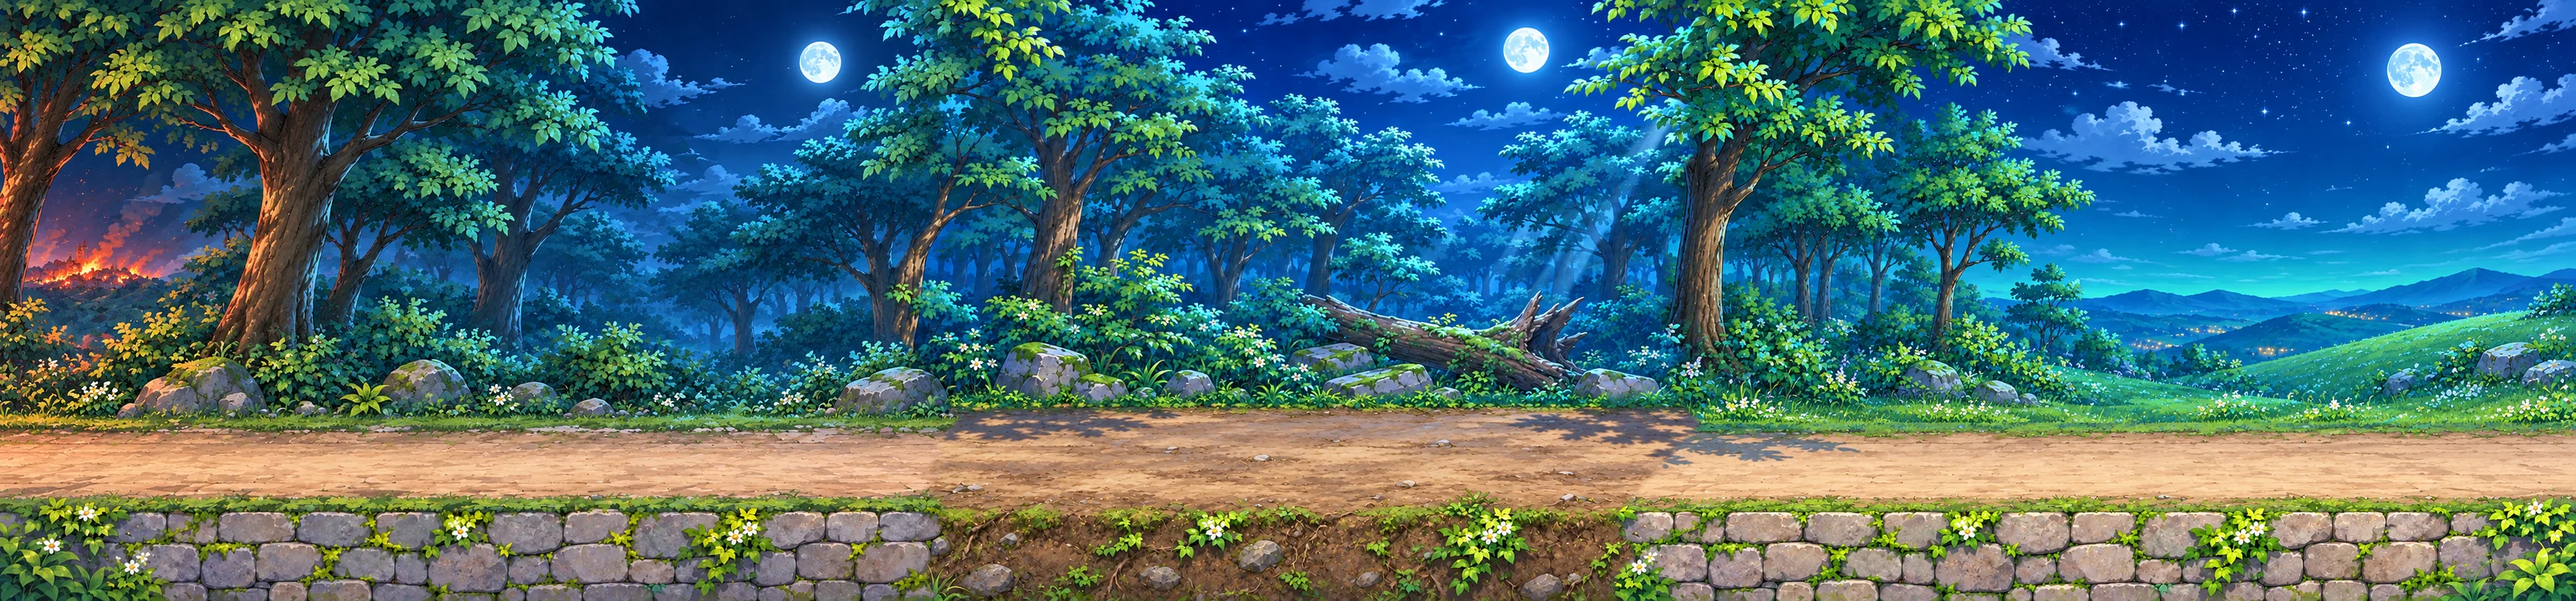
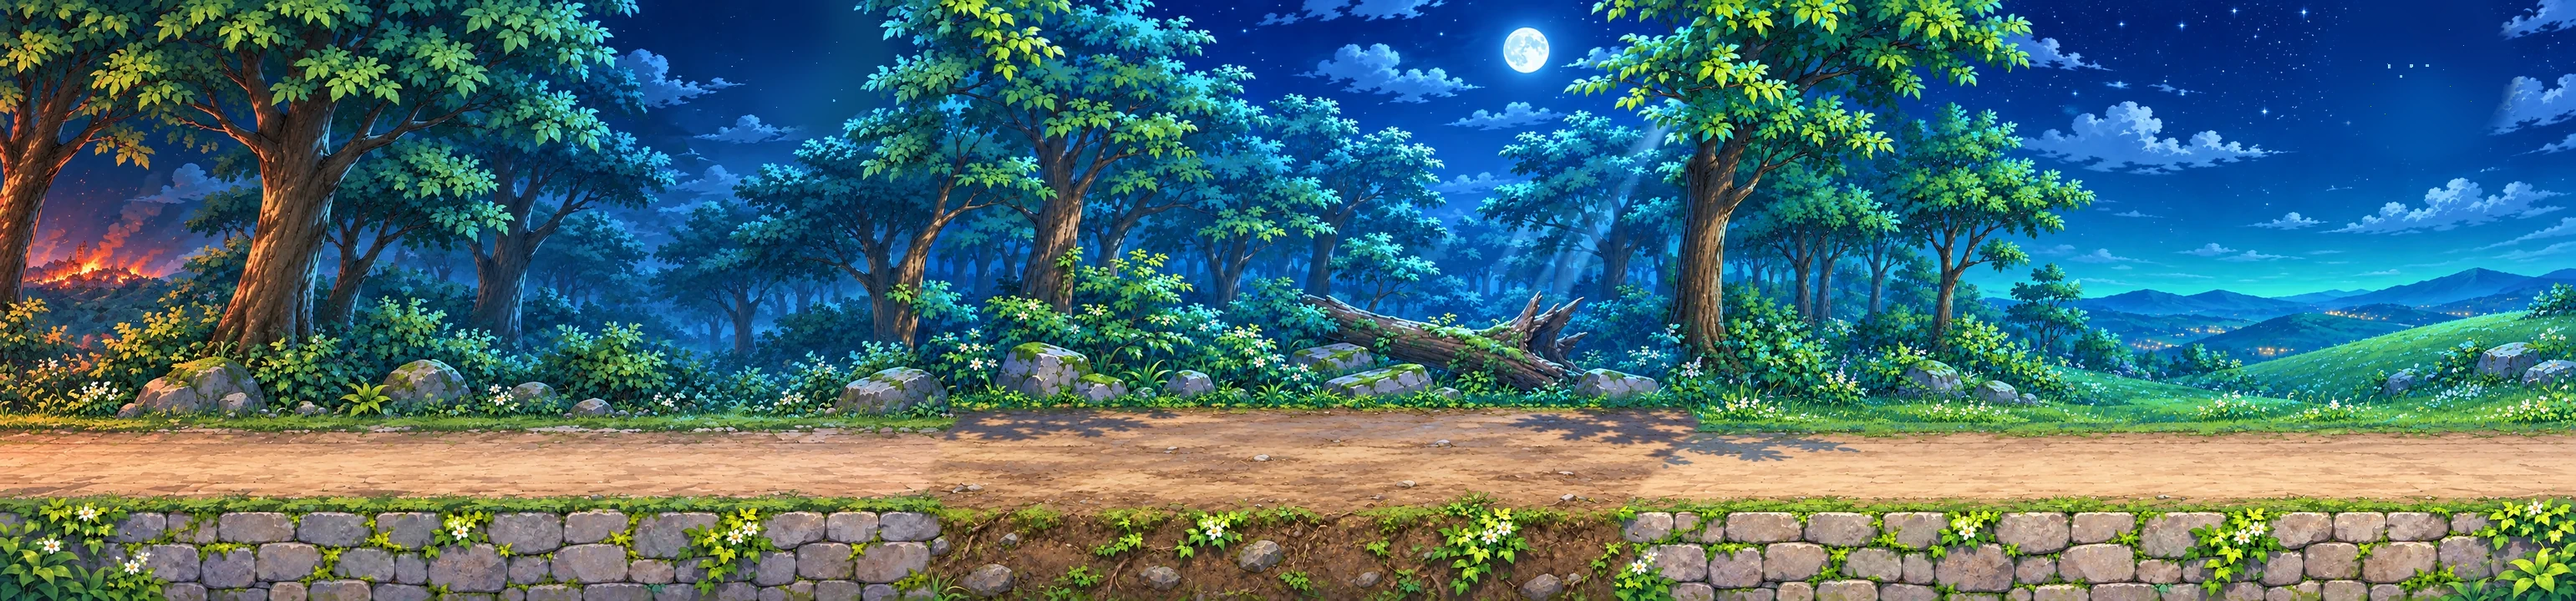
프롤로그 집 장면 개편: 주인공 난투 제거, 무기 든 습격자, 간부 검 동작과 아버지가 대신 맞는 모션 추가(새 동작 시트), 대사 교체, 달 중복 제거(escape 배경)
Claude-Session: https://claude.ai/code/session_01SwHSdbEEaZJxcHmirHV4co

Changed region(s): [[0.903, 0.0, 0.9964, 0.2444], [0.2802, 0.0, 0.3425, 0.2444]]

diff --git a/games/autelia/js/prologue/scenes.js b/games/autelia/js/prologue/scenes.js
@@ -23,7 +23,8 @@ window.AU = window.AU || {};
         const moving = e.pause <= 0, cyc = (e.step / 46) % 1, fr = !moving ? "stand" : cyc < 0.25 ? "walk1" : cyc < 0.5 ? "stand" : cyc < 0.75 ? "walk2" : "stand";
         const bob = moving ? Math.abs(Math.sin(cyc * Math.PI * 2)) * 3.2 : Math.sin(P.time * 1.6 + e.ph) * 1.1, sway = moving ? Math.sin(cyc * Math.PI * 2) * 0.018 : 0;
         ctx.save(); ctx.globalAlpha = e.alpha == null ? (A.has("pc_raider_actions") ? 1 : 0.78) : e.alpha; ctx.translate(e.x, e.y - bob); ctx.rotate(sway * e.face + (e.tilt || 0) * e.face); ctx.translate(-e.x, -e.y);
-        if (!A.spr(ctx, "pc_" + (A.has("pc_" + e.wk) ? e.wk : "raider_actions"), fr, e.x, e.y, e.face, e.s / 0.5)) A.raider(ctx, e.x, e.y, e.s, P.time, e.face); ctx.restore(); } });
+        if (e.pose && A.has("pc_raider_officer")) A.spr(ctx, "pc_raider_officer", e.pose, e.x, e.y, e.face, e.s / 0.5);   // 간부의 검 동작(준비·치켜듦·내리침)
+        else if (!A.spr(ctx, "pc_" + (A.has("pc_" + e.wk) ? e.wk : "raider_actions"), fr, e.x, e.y, e.face, e.s / 0.5)) A.raider(ctx, e.x, e.y, e.s, P.time, e.face); ctx.restore(); } });
   }
   const SHEETS = "abcdefghijklm".split("").filter(() => true); // 주민 동작 시트(a~c 1차, d~m NPC 다양화). 없는 시트는 runner/crowd 에서 건너뜀
   const pickSheet = () => { const ok = SHEETS.filter((c) => A.has("pc_villager_" + c + "_actions")); return ok.length ? ok[(Math.random() * ok.length) | 0] : "a"; };
@@ -383,8 +384,11 @@ window.AU = window.AU || {};
     fireEmitters(P, 1280, 180, 520, 1.1);
     const father = P.addEnt({ id: "father", x: LAY.house.father, range: 0, hand: 0, drop: 0, frag: false, layer: "mid",
       draw(ctx, e, P) { const w = AU.World;
-        if (e.stand && A.has("pc_father_work")) { // 희생 장면: 쓰러졌던 아버지가 마지막 힘으로 일어나 달려 나옴(그림은 왼쪽을 봄)
-          const fr = e.run ? (Math.floor(P.time * 6) % 2 ? "walk1" : "walk2") : "hold"; A.spr(ctx, "pc_father_work", fr, e.x, G - (e.run ? Math.abs(Math.sin(P.time * 12)) * 3 : 0), -e.face); return; }
+        if (e.fpose && A.has("pc_father_hit")) { // 희생 장면: 누웠던 아버지가 일어나 막아서고(guard) → 칼에 맞고(hit) → 무너짐(fall). rise 0..1 로 누운 그림과 서로 겹쳐 바뀜
+          const rs = Math.max(0, Math.min(1, e.rise == null ? 1 : e.rise));
+          if (A.has("pc_father_down") && rs < 1) { ctx.save(); ctx.globalAlpha = 1 - rs; A.pic(ctx, "pc_father_down", LAY.house.father, G + 4, 42, -1); ctx.restore(); }
+          ctx.save(); ctx.globalAlpha = rs; const rot = e.fpose === "guard" ? (1 - rs) * -1.25 : 0; ctx.translate(e.x, G); ctx.rotate(rot * (e.face || -1) * -1); ctx.translate(-e.x, -G);
+          A.spr(ctx, "pc_father_hit", e.fpose, e.x + (e.shk || 0), G, e.face === 1 ? 1 : -1); ctx.restore(); return; }
         if (A.has("pc_father_down")) { // 쓰러진 아버지(머리가 왼쪽): 팔이 뻗은 한 장 그림만 사용(팔 조각을 따로 겹치면 손만 잘려 보여서 제거). 손이 앞으로 내민 쪽에 조각을 쥔 표시만 겹침
           A.pic(ctx, "pc_father_down", e.x, G + 4, 42, -1);
           const tipX = e.x - 96, tipY = G - 6;
@@ -422,7 +426,7 @@ window.AU = window.AU || {};
     const P = AU.Prologue, g = P.gen, v = P.v;
     await P.cutscene(async () => { // CS-03 아버지의 유언
       P.obj(""); P.amb("raid_far", true); P.face(1);
-      await P.say([T.will[0]]); await P.walkTo(612, 1.5); await P.say([T.will[1]]); P.pose("kneel"); P.zoomTo(1.25, 1.6, 700, 450); await P.wait(1.0);
+      await P.say([T.will[0]]); await P.walkTo(Math.max(612, AU.World.player.x), 1.2); await P.say([T.will[1]]); P.pose("kneel"); P.zoomTo(1.25, 1.6, 700, 450); await P.wait(1.0);
       await P.say(T.will.slice(2, 5)); // 아버지 "...왔구나." / 주인공 / 아버지 "아니... 시간이 없다."
       await P.tween(father, { hand: 1 }, 1.3); father.frag = true; await P.wait(0.5);
       P.closeup = { a: 0 }; P.sfx("fragment"); await P.tween(P.closeup, { a: 1 }, 0.9); P.setFlag("metal_fragment_acquired"); P.give("metal_fragment"); father.frag = false; await P.wait(3.0); await P.tween(P.closeup, { a: 0 }, 0.8); P.closeup = null;
@@ -434,70 +438,37 @@ window.AU = window.AU || {};
     }, { id: "cs03", skip: true, bars: true });
     if (!live(P, g)) return; bag.hidden = false; P.obj(OBJ.s4_bag); P.limits = { min: 120, max: null, msg: "도구 가방을 챙겨야 합니다." };
   }
-  /* 집 안 난투: 주인공이 망치로 부하 둘과 맞선다. 공격 키로 망치를 휘두르고(앞쪽 가까운 적에게 적중), 부하는 다가와 몸을 숙였다가 내려친다.
-     체력 표시·패배 없음(맞으면 비틀릴 뿐) — 부하 둘을 쓰러뜨리거나 18초가 지나면 끝나고 간부가 나선다. */
-  function startBrawl(P, foes, limitX) {
-    const p = AU.World.player, v = P.v, F = P.fight = { on: true, t: 0, cd: 0, sw: 0, hitDone: false, kb: 0, inv: 0, hits: 0 };
-    for (const e of foes) { e.hp = 3; e.stun = 0; e.cool = 0.6 + Math.random() * 0.9; e.wind = 0; e.kb = 0; e.down = false; e.tilt = 0; e.pause = 0; e.min = null; }
-    F.done = new Promise((res) => { F.resolve = res; });
-    const fall = async (e) => { e.alpha = 1; P.sfx("thud"); await P.tween(e, { tilt: -1.35 }, 0.45, (k) => k * k); await P.wait(0.25); await P.tween(e, { alpha: 0 }, 0.6); e.hidden = true; };
-    const hit = () => { for (const e of foes) { if (e.down) continue; const d = e.x - p.x; if (Math.sign(d || p.dir) === p.dir && Math.abs(d) < 115) { e.hp--; e.stun = 0.35; e.wind = 0; e.tilt = 0; e.kb = p.dir * 260; P.sfx("thud"); P.shake(4, 0.14); P.burst("dust", e.x, G - 70, 6); if (e.hp <= 0) { e.down = true; e.stun = 0; fall(e); } } } };
-    const strike = (e) => { e.tilt = 0; e.cool = 1.3 + Math.random() * 0.7; if (Math.abs(p.x - e.x) < 105 && F.inv <= 0) { F.inv = 0.8; F.hits++; p.flash = 0.3; F.kb = (p.x < e.x ? -1 : 1) * 240; P.sfx("thud"); P.shake(5, 0.18); } };
-    F.onAttack = () => { if (!F.on || F.cd > 0 || P.locked()) return; F.cd = 0.55; F.sw = 0.3; F.hitDone = false; P.pose("hammer"); v.swing = 0; P.sfx("hammer"); };
-    const finish = () => { if (!F.on) return; F.on = false; P.pose(null); v.swing = 0; F.resolve(); };
-    P.addEnt({ id: "brawl", x: 0, range: 0, draw() {}, update(_, dt) {
-      if (!F.on) return; F.t += dt; F.cd = Math.max(0, F.cd - dt); F.inv = Math.max(0, F.inv - dt);
-      if (F.sw > 0) { F.sw -= dt; v.swing = F.sw < 0.15 ? 1 : 0; if (F.sw < 0.15 && !F.hitDone) { F.hitDone = true; hit(); } if (F.sw <= 0) { P.pose(null); v.swing = 0; } }
-      if (F.kb) { p.x = Math.max(120, Math.min(limitX, p.x + F.kb * dt)); F.kb *= Math.pow(0.02, dt); if (Math.abs(F.kb) < 5) F.kb = 0; }
-      let alive = 0;
-      for (const e of foes) {
-        if (e.down) continue; alive++;
-        if (e.stun > 0) { e.stun -= dt; e.x += e.kb * dt; e.kb *= Math.pow(0.02, dt); e.tilt = -0.14 * Math.min(1, e.stun / 0.2); e.pause = 1; continue; }
-        const d = p.x - e.x, ad = Math.abs(d); e.face = d < 0 ? -1 : 1;
-        if (e.wind > 0) { e.wind -= dt; e.tilt = 0.24 * (1 - Math.max(0, e.wind) / 0.45); if (e.wind <= 0) strike(e); continue; }
-        if (ad > 80) { const sp = 150; e.x += e.face * sp * dt; e.step += sp * dt; e.pause = 0; } else { e.pause = 1; e.cool -= dt; if (e.cool <= 0) e.wind = 0.45; }
-      }
-      if (alive === 0 || F.t > 18) finish(); } });
-    P.hint("망치로 맞서세요! 공격: " + AU.keyLabel(AU.Input.bindings.attack), 7, true);
-    return F;
-  }
   SC.SCENE_04_FATHER = { name: "아버지의 마지막 유언", async enter(P) {
-    const g = P.gen; P.room("pro_house", LAY.house.start, (P) => setupHouse(P)); P.amb("raid_far", true); P.v.brawl = true;
-    // 집에 들어서는 순간 아버지는 아직 서서 습격 간부와 맞서고 있다 → 간부의 일격에 쓰러진다(컷) → 간부가 낙인을 알아보고 부하들을 보낸다 → 주인공이 망치로 맞선다(난투) → 간부가 직접 나서 제압 → 무너지는 지붕을 피해 물러난다
+    const g = P.gen; P.room("pro_house", LAY.house.start, (P) => setupHouse(P)); P.amb("raid_far", true); P.v.brawl = true;   // brawl: 연출이 끝나기 전에는 유언 장면(find 트리거)이 시작되지 않게 막는 표시
+    // 집에 들어서는 순간 아버지는 이미 간부 앞에서 쓰러져 있다(컷) → 간부가 검을 뽑아 주인공을 내려치려 한다 → 아버지가 일어나 대신 맞는다 → 간부 일행 퇴각 → 유언
     P.cut = { src: "assets/prologue/cut/strike.webp", a: 1, zoom: 0.012, t0: P.time };
-    { const fx = LAY.house.father; // 간부(낙인을 알아본 우두머리)와 부하 둘: 아버지 곁에 서 있다가 명령이 떨어지면 부하가 달려든다
-      for (const [id, dx, sc] of [["off", 170, 0.66], ["rg1", 290, 0.54], ["rg2", 380, 0.52]]) { const e = raider(P, id, fx + dx, G, sc, -1, null, null); e.update = (q, dt) => { if (q.fleeing || q.go) { q.x += q.face * q.sp * dt; q.step += q.sp * dt; } }; e.pause = 1; } }
+    const fx = LAY.house.father, wait = (ms) => P.wait(ms);
+    for (const [id, dx, sc, wk] of [["off", 170, 0.66, null], ["rg1", 290, 0.54, "raider_axe"], ["rg2", 380, 0.52, "raider_spear"]]) {
+      const e = raider(P, id, fx + dx, G, sc, -1, null, null); if (wk) e.wk = wk; if (id === "off") e.pose = "ready"; e.pause = 1;
+      e.update = (q, dt) => { if (q.go) { q.x += q.face * q.sp * dt; q.step += q.sp * dt; q.pause = 0; } else q.pause = 1; }; }
+    const ent = (id) => P.ents.find((q) => q.id === id);
+    const walkTo = async (e, x, sp) => { e.sp = sp; e.face = x < e.x ? -1 : 1; e.go = true; let guard = 0; while (Math.abs(e.x - x) > 6 && guard++ < 400) await P.wait(0.05); e.go = false; };
     await P.cutscene(async () => {
       P.obj(""); P.sfx("boom"); await P.fade(0, 1.2); await P.wait(0.8);
       await P.say([T.officer[0]]);
       P.sfx("collapse"); P.shake(12, 0.9); await P.flash("#ffd9a0", 0.35); await P.tween(P.cut, { a: 0 }, 0.7); P.cut = null; await P.wait(0.5);
-      await P.say(T.officer.slice(1));   // 주인공의 외침 → 간부의 명령
+      await P.say(T.officer.slice(1, 2));   // 주인공의 외침
+      const p = AU.World.player, off = ent("off"), r1 = ent("rg1"), r2 = ent("rg2"), fa = ent("father");
+      await P.say(T.officer.slice(2));      // 간부의 선언
+      await P.walkTo(660, 2.0); P.pose("kneel"); await P.wait(0.5);   // 주인공은 아버지 곁으로 달려가 주저앉음
+      walkTo(r1, fx + 165, 70); walkTo(r2, fx + 260, 70);            // 부하들이 무기를 든 채 한 걸음씩 다가옴
+      await walkTo(off, fx + 115, 80); off.pose = "raise"; P.sfx("hammer"); await P.wait(0.5); await P.say(T.officer2);   // 간부가 검을 치켜듦
+      // 아버지가 마지막 힘으로 일어나 주인공 앞을 막아섬
+      fa.fpose = "guard"; fa.face = 1; fa.rise = 0; P.sfx("slump"); await P.tween(fa, { rise: 1, x: fx - 30 }, 0.7, (k) => k * (2 - k)); await P.say(T.officer2b);
+      // 내리치는 순간 — 아버지가 대신 맞음
+      off.pose = "slash"; await P.tween(off, { x: off.x - 16 }, 0.1, (k) => k); fa.fpose = "hit"; P.sfx("thud"); P.shake(14, 0.5); await P.flash("#ffd9a0", 0.28); P.burst("dust", fa.x, G - 70, 8); await P.wait(0.45);
+      fa.fpose = "fall"; P.sfx("slump"); await P.wait(0.5);
+      await P.tween(fa, { rise: 0, x: fx }, 0.5, (k) => k); fa.fpose = null; fa.rise = null; await P.wait(0.5);   // 쓰러져 누운 자리(유언 장면 위치)로
+      off.pose = "ready"; await P.say(T.officer3);
+      // 간부 일행이 오른쪽으로 물러남
+      off.face = 1; r1.face = 1; r2.face = 1; off.sp = r1.sp = r2.sp = 75; off.go = r1.go = r2.go = true; await P.wait(2.2); P.ents = P.ents.filter((q) => q.id !== "off" && q.id !== "rg1" && q.id !== "rg2"); await P.wait(0.4);
     }, { id: "cs03a", skip: true, bars: true }); P.cut = null; if (!live(P, g)) return;
-    // 난투: 부하 둘이 달려든다(주인공은 왼쪽 구역에서만 움직임)
-    P.limits = { min: 120, max: 440, msg: "" }; P.obj("망치로 습격자를 물리치세요.");
-    const foes = ["rg1", "rg2"].map((id) => P.ents.find((q) => q.id === id)).filter(Boolean); P.face(1);
-    await P.wait(0.5); startBrawl(P, foes, 440); await P.fight.done; if (!live(P, g)) return;
-    await P.cutscene(async () => {
-      P.obj(""); const off = P.ents.find((q) => q.id === "off"), p = AU.World.player;
-      if (off) { off.face = -1; off.pause = 0; off.sp = 140; off.go = true; let guard = 0; while (Math.abs(off.x - p.x) > 95 && guard++ < 200) await P.wait(0.05); off.go = false; off.pause = 1; await P.wait(0.25); }
-      P.sfx("thud"); P.shake(10, 0.5); await P.flash("#ffd9a0", 0.25); P.pose("stagger"); await P.tween(p, { x: Math.max(130, p.x - 60) }, 0.3, (k) => k * (2 - k)); P.pose("kneel"); await P.wait(0.5);   // 간부의 일격에 무릎을 꿇음
-      // 간부가 무릎 꿇은 주인공 앞에서 검을 치켜든다 → 쓰러져 있던 아버지가 마지막 힘으로 일어나 사이로 뛰어들어 대신 맞는다
-      if (off) { off.tilt = -0.32; P.sfx("hammer"); } await P.say(T.officer2);
-      const fa = P.ents.find((q) => q.id === "father"), tx = Math.min(off ? off.x - 55 : p.x + 55, p.x + 70);
-      if (fa) { fa.face = 1; fa.stand = true; fa.run = true; P.sfx("slump"); await P.tween(fa, { x: tx }, 1.1, (k) => k * (2 - k)); fa.run = false; await P.say(T.officer2b);
-        if (off) { off.tilt = 0.3; await P.wait(0.12); off.tilt = 0; }
-        P.sfx("thud"); P.shake(12, 0.5); await P.flash("#ffd9a0", 0.3); P.burst("dust", tx, G - 70, 8); await P.wait(0.5);
-        // 쓰러지는 아버지(낙인이 한 번 일렁임): 붉은 불꽃 대신 검은 고리가 번쩍이는 연출은 코드 이펙트로 대체 — 손목 위치에 어두운 맥동
-        P.flash("#201018", 0.25); await P.wait(0.3);
-        await P.say(T.officer3); }
-      await P.fade(1, 0.7); P.pose(null);
-      // 장면 정리: 간부 일행 퇴장, 아버지는 원래 쓰러진 자리(유언 장면 위치)에 누움, 주인공은 방 왼쪽에서 일어남
-      for (const id of ["off", "rg1", "rg2"]) { const e = P.ents.find((q) => q.id === id); if (e) e.hidden = true; }
-      if (fa) { fa.stand = false; fa.run = false; fa.x = LAY.house.father; } p.x = 330; p.dir = 1; P.sfx("collapse"); P.burst("dust", 760, 280, 12); P.shake(8, 0.8);
-      await P.wait(0.4); await P.fade(0, 0.9); await P.wait(0.5);
-      P.ents = P.ents.filter((q) => q.id !== "off" && q.id !== "rg1" && q.id !== "rg2");
-    }, { id: "cs03b", skip: true, bars: true }); P.cut = null; P.fight = null; if (!live(P, g)) return;
-    P.v.brawl = false; P.limits = { min: 120, max: null, msg: "아버지를 먼저 찾아야 합니다." }; P.obj(OBJ.s3_dad);
+    P.v.brawl = false; P.limits = { min: 120, max: null, msg: "아버지를 먼저 찾아야 합니다." }; P.obj(OBJ.s3_dad);   // 이후 조작이 풀리면 곧바로 유언 장면(find 트리거)으로 이어짐
   } };
 
   /* ============================================================

diff --git a/games/autelia/js/prologue/data.js b/games/autelia/js/prologue/data.js
@@ -24,6 +24,8 @@ window.AU = window.AU || {};
   AR.ch.player_f_work = { frames: 4, names: ["carry", "give", "swing_up", "swing_dn"], separate: {}, cw: 300, ch: 345, standH: 300, foot: 150 };
   AR.ch.player_m_bag = { frames: 7, names: ["stand", "walk1", "walk2", "walk3", "walk4", "jump_up", "jump_down"], separate: {}, cw: 210, ch: 310, standH: 300, foot: 105 };   // 가방을 멘 이동 시트(남)
   AR.ch.player_f_bag = { frames: 7, names: ["stand", "walk1", "walk2", "walk3", "walk4", "jump_up", "jump_down"], separate: {}, cw: 210, ch: 310, standH: 300, foot: 105 };   // 가방을 멘 이동 시트(여)
+  AR.ch.raider_officer = { frames: 3, names: ["ready", "raise", "slash"], separate: {}, cw: 276, ch: 313, standH: 250, foot: 308 };   // 간부의 검 동작(준비·치켜듦·내리침)
+  AR.ch.father_hit = { frames: 3, names: ["guard", "hit", "fall"], separate: {}, cw: 277, ch: 284, standH: 275, foot: 279 };   // 아버지가 막아서고 맞고 무너지는 동작
   for (const [w, ch] of [["axe", 300], ["spear", 306], ["mace", 300]]) AR.ch["raider_" + w] = { frames: 3, names: ["stand", "walk1", "walk2"], separate: {}, cw: 240, ch, standH: 295, foot: ch - 5 };   // 습격자 무기 변형(도끼·창·철퇴). 허리 검을 찬 기본형은 raider_actions
   AR.ch.player_m_combat = { frames: 6, names: ["attack1", "attack2", "strike", "spin", "hurt", "down"], separate: {}, cw: 463, ch: 394, standH: 300, foot: 231 };   // 본편 전투 동작
   AR.ch.player_f_combat = { frames: 6, names: ["attack1", "attack2", "strike", "spin", "hurt", "down"], separate: {}, cw: 453, ch: 389, standH: 300, foot: 226 };
@@ -98,10 +100,10 @@ window.AU = window.AU || {};
     attack: [["resA", "불이야!"], ["resB", "신전이 불타고 있어!"], ["resC", "도망쳐! 무장한 놈들이 들어왔다!"], ["raider", "어둠이 돌아온다! 낙인을 가진 놈을 찾아라!"]],
     hero_dad: [["heroS", "아버지...!"]],
     will: [["hero", "아버지...?"], ["hero", "아버지!"], ["father", "...왔구나."], ["hero", "말하지 마세요. 지금 사람을 불러올게요."], ["father", "아니... 시간이 없다."]],
-    officer: [["officer", "...낙인이군. 천 년을 숨어 산 용사의 피가 정말 여기 있었나."], ["heroS", "당신들이... 아버지를!"], ["officer", "그 손목의 낙인... 네놈도 같은 피로군. 얘들아, 저놈부터 처리해라."]],
-    officer2: [["officer", "...끝이다, 목수의 아들."]],
-    officer2b: [["father", "...내 아들에게... 손대지 마라."]],
-    officer3: [["officer", "...낙인이군. 확인했다. 오늘은 이걸로 충분하다."], ["officer", "물러난다."]],
+    officer: [["officer", "...낙인이군. 천 년을 숨어 산 용사의 피가 정말 여기 있었나."], ["heroS", "당신들이... 아버지를!"], ["officer", "그 손목의 낙인... 네놈도 같은 피로군. 여기서 끝내 주마."]],
+    officer2: [["officer", "...잘 가라, 목수의 아들."]],
+    officer2b: [["father", "...내 아들에게... 손대지 마라!"]],
+    officer3: [["officer", "...쓸데없는 짓을."], ["raider", "대장, 불길이 번집니다!"], ["officer", "...가자. 도망쳐 봐라, 목수의 아들. 낙인이 있는 한 우리는 반드시 다시 만난다."]],
     will_brand: [["father", "이 조각은... 천 년 전, 우리 선조들이 어둠을 봉인할 때 쓰인 봉인석의 조각이다."], ["hero", "봉인...석? 선조라니, 아버지, 그게 무슨..."], ["father", "우리는... 다섯 용사의 피를 이은 후예다. 내 손목에 새겨진 이 검은 고리 낙인이 그 증거다."], ["father", "천 년을 숨어 살았는데... 그들이 끝내 우리를 찾아냈구나. 미안하다... 숨기지 못해서."]],
     will2: [["father", "도망쳐라..."], ["hero", "그런 말 하지 마세요."], ["father", "이 조각을 들고..."], ["father", "빛도 어둠도 닿지 않는 중립 구역으로 가야... 안전해..."], ["hero", "아버지, 제발..."]],
     will3: [["hero", "...아버지?"]],

diff --git a/games/autelia/js/world.js b/games/autelia/js/world.js
@@ -187,7 +187,7 @@ window.AU = window.AU || {};
     onAction(id) {
       if (this.isBlocked()) return;
       const PR = AU.Prologue;
-      if (PR && PR.on) { if (id === "interact") { PR.interactNear(); return; } if (id === "attack") { if (PR.fight && PR.fight.on && PR.fight.onAttack) PR.fight.onAttack(); return; } if (id.startsWith("skill")) return; } // 프롤로그에서는 스킬 없음(공격은 집 안 난투 장면에서만)
+      if (PR && PR.on) { if (id === "interact") { PR.interactNear(); return; } if (id === "attack" || id.startsWith("skill")) return; } // 프롤로그에서는 전투·스킬 없음
       if (id === "potion" || id === "scroll") { AU.G.quickUse(id); return; }
       const p = this.player; if (id === "interact" || id === "up") this.scan();
       if (id === "jump") {

diff --git a/tools/art/pack_officer_father_hit.py b/tools/art/pack_officer_father_hit.py
@@ -1,0 +1,32 @@
+"""마젠타 배경 2줄×3칸 시트 → raider_officer.webp(간부: 준비·치켜듦·내리침) + father_hit.webp(아버지: 막아섬·맞음·쓰러짐).
+사용(games/autelia에서): python3 ../../tools/art/pack_officer_father_hit.py <시트.png>
+- 시트 그림은 오른쪽을 보고 있어 가로로 뒤집어 게임 기본 방향(왼쪽)에 맞춤. 두 줄에 같은 배율을 씀(아버지 '막아섬' 칸 키를 275px로)."""
+import sys, numpy as np
+from PIL import Image
+from scipy import ndimage as ndi
+src = sys.argv[1]
+a = np.array(Image.open(src).convert("RGB")).astype(float)
+d = np.sqrt((a[..., 0] - 255) ** 2 + a[..., 1] ** 2 + (a[..., 2] - 255) ** 2)
+alpha = np.clip((d - 70) / 60, 0, 1); m = ndi.binary_opening(d > 90, iterations=2)
+lab, n = ndi.label(ndi.binary_dilation(m, iterations=5))
+comps = []
+for L in range(1, n + 1):
+    ys, xs = np.where((lab == L) & m)
+    if len(ys) > 6000: comps.append([xs.min(), xs.max(), ys.min(), ys.max(), L])
+assert len(comps) == 6, f"칸 {len(comps)}개 인식(6개여야 함)"
+comps.sort(key=lambda c: (c[2] + c[3]) / 2); rows = [sorted(comps[i * 3:(i + 1) * 3]) for i in range(2)]
+spill = np.clip(1 - d / 140, 0, 1)[..., None]
+rgb = a - spill * np.stack([np.maximum(a[..., 0] - a[..., 1], 0) * .6, 0 * d, np.maximum(a[..., 2] - a[..., 1], 0) * .6], -1)
+rgba = np.dstack([np.clip(rgb, 0, 255), alpha * 255]).astype(np.uint8)
+g = rows[1][0]; S = 275.0 / (g[3] - g[2] + 1)
+def cells(row):
+    ims = []
+    for x0, x1, y0, y1, L in row:
+        keep = ndi.binary_dilation(lab == L, iterations=3); crop = rgba[y0:y1 + 1, x0:x1 + 1].copy(); crop[..., 3] = (crop[..., 3] * keep[y0:y1 + 1, x0:x1 + 1]).astype(np.uint8)
+        im = Image.fromarray(crop).transpose(Image.FLIP_LEFT_RIGHT); im = im.resize((max(1, round(im.width * S)), max(1, round(im.height * S))), Image.LANCZOS); ims.append(im)
+    return ims
+for nm, row in (("raider_officer", rows[0]), ("father_hit", rows[1])):
+    ims = cells(row); CW = max(i.width for i in ims) + 12; CH = max(i.height for i in ims) + 5
+    out = Image.new("RGBA", (CW * 3, CH), (0, 0, 0, 0))
+    for i, im in enumerate(ims): out.alpha_composite(im, (i * CW + (CW - im.width) // 2, CH - 5 - im.height))
+    out.save(f"assets/prologue/ch/{nm}.webp", quality=95, method=6); print(nm, "cw", CW, "ch", CH, [i.size for i in ims])
